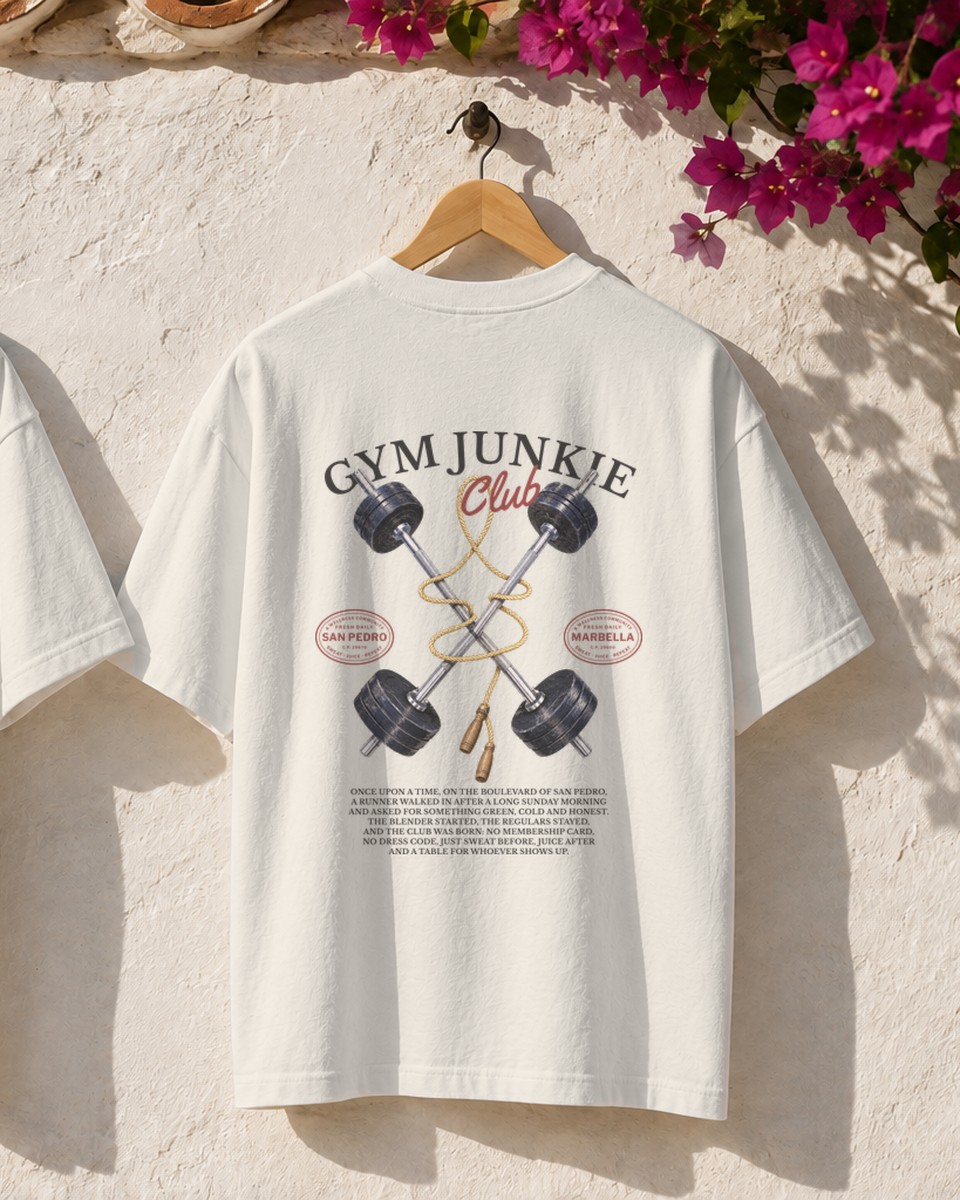
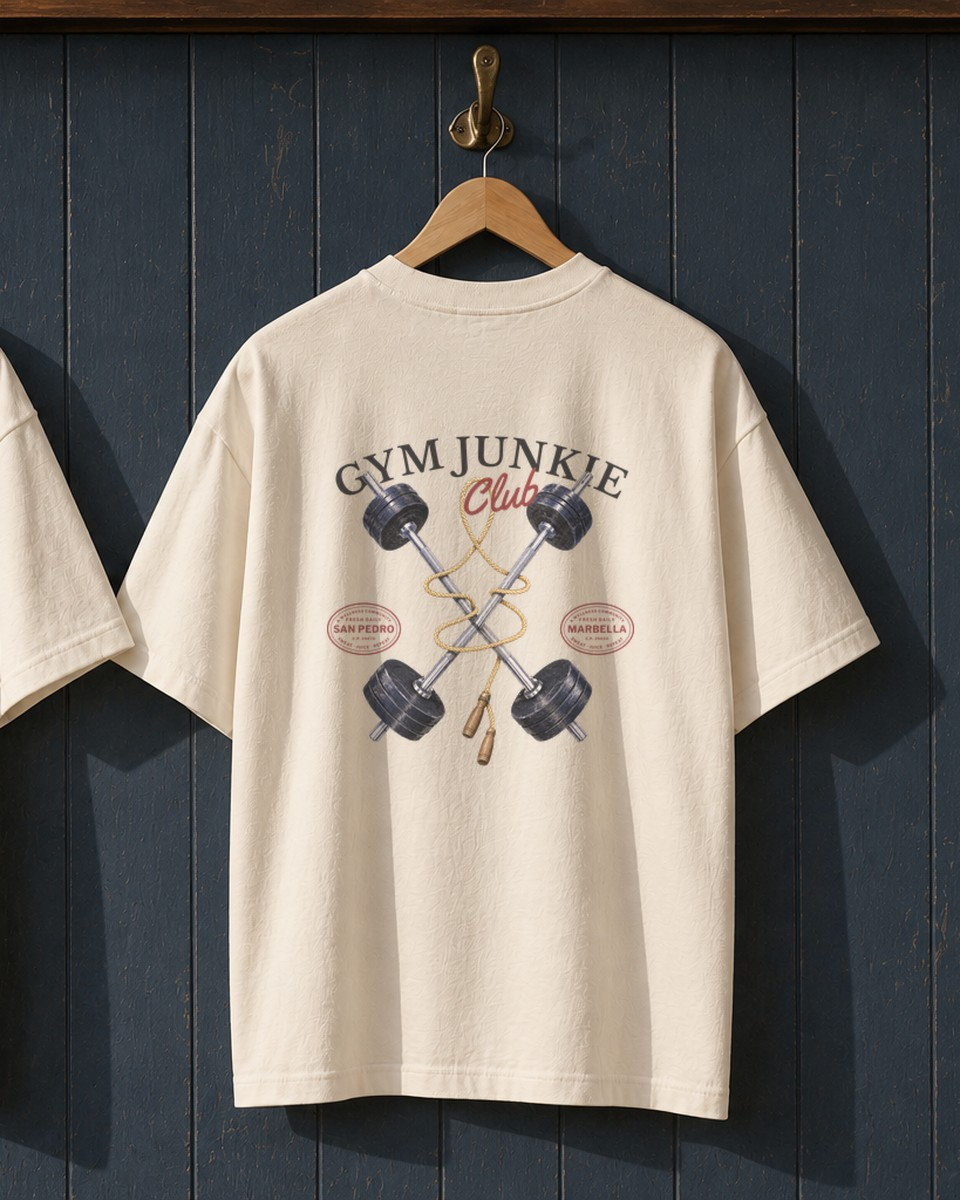
Gym Junkie Club: camiseta en el formato de la propuesta, sin el párrafo y con frontal en los tonos del diseño

diff --git a/gym-junkie-club/index.html b/gym-junkie-club/index.html
@@ -1,0 +1,64 @@
+<!doctype html>
+<html lang="en">
+<head>
+<meta charset="utf-8">
+<meta name="viewport" content="width=device-width, initial-scale=1">
+<meta name="robots" content="noindex">
+<title>Gym Junkie Club · Tee</title>
+<link rel="preconnect" href="https://fonts.googleapis.com">
+<link rel="stylesheet" href="https://fonts.googleapis.com/css2?family=Outfit:wght@500;800&family=JetBrains+Mono:wght@400&display=swap">
+<style>
+  /* Gym Junkie Club tee, presented in the same format as the Run Junkies proposal (tag + Front · Back · Design),
+     on its own page. Not part of the proposal. */
+  :root{ --paper:#f5f2ea; --ink:#1d241a; --lime:#d6e898; --deep:#17201a; }
+  *{ box-sizing:border-box; margin:0; padding:0; }
+  body{ background:var(--paper); color:var(--ink); font-family:"Outfit", Helvetica, Arial, sans-serif; }
+  img{ display:block; width:100%; }
+  .wrap{ max-width:1180px; margin:0 auto; padding:0 32px; }
+  @media (max-width:600px){ .wrap{ padding:0 16px; } }
+  header{ background:var(--deep); color:var(--lime); padding:64px 0 60px; }
+  header small{ display:block; font-weight:500; font-size:13px; letter-spacing:.3em; text-transform:uppercase; color:#aab39f; }
+  header h1{ font-weight:800; font-size:clamp(54px,9vw,120px); line-height:.9; text-transform:uppercase; margin-top:14px; }
+  header h1 span{ color:#f5f2ea; font-size:.4em; letter-spacing:.12em; display:block; margin-top:10px; font-weight:500; }
+  section{ padding:64px 0 0; }
+  .tag{ display:inline-flex; align-items:baseline; gap:14px; background:var(--ink); color:var(--lime); padding:10px 18px 9px; }
+  .tag b{ font-weight:800; font-size:20px; letter-spacing:.16em; text-transform:uppercase; }
+  .tag span{ font-weight:500; font-size:14px; letter-spacing:.14em; text-transform:uppercase; color:#f5f2ea; }
+  .tiles{ display:grid; grid-template-columns:repeat(3,1fr); gap:14px; margin-top:18px; }
+  @media (max-width:700px){ .tiles{ grid-template-columns:1fr; } }
+  .tiles a{ display:block; overflow:hidden; background:#e7e3d8; text-decoration:none; color:inherit; }
+  .tiles img{ aspect-ratio:4/5; object-fit:cover; transition:transform .5s ease; }
+  .tiles a:hover img{ transform:scale(1.02); }
+  .tiles i{ display:block; font-style:normal; font-family:"JetBrains Mono"; font-size:11px; letter-spacing:.12em; text-transform:uppercase; color:#6d7166; background:var(--paper); padding-top:8px; }
+  .wide{ margin-top:14px; }
+  footer{ padding:70px 0 36px; font-family:"JetBrains Mono"; font-size:12px; letter-spacing:.06em; color:#6d7166; }
+  @page{ size:1280px 860px; margin:0; }
+  @media print{
+    *{ -webkit-print-color-adjust:exact; print-color-adjust:exact; }
+    header{ height:860px; display:flex; align-items:center; }
+    header h1{ font-size:150px; }
+    section{ break-before:page; padding-top:56px; }
+    .wide{ display:none; }
+    footer{ display:none; }
+  }
+</style>
+</head>
+<body>
+<header><div class="wrap">
+  <small>Gym Junkie Café</small>
+  <h1>Gym Junkie Club<span>× NAW</span></h1>
+</div></header>
+
+<section><div class="wrap">
+  <div class="tag"><b>The club tee</b><span>Gym Junkie Club</span></div>
+  <div class="tiles">
+    <a href="img/front.jpg" target="_blank"><img src="img/front.jpg" alt="Front: Gym Junkie Café and NAW on the chest"><i>Front</i></a>
+    <a href="img/front-back.jpg" target="_blank"><img src="img/back.jpg" alt="Back: Gym Junkie Club print"><i>Back</i></a>
+    <a href="img/design.jpg" target="_blank"><img src="img/design.jpg" alt="Back design"><i>Design</i></a>
+  </div>
+  <a class="wide" href="img/front-back.jpg" target="_blank" style="display:block"><img src="img/front-back.jpg" alt="Front and back"></a>
+</div></section>
+
+<footer><div class="wrap">Design · Arturo Vicioso</div></footer>
+</body>
+</html>
